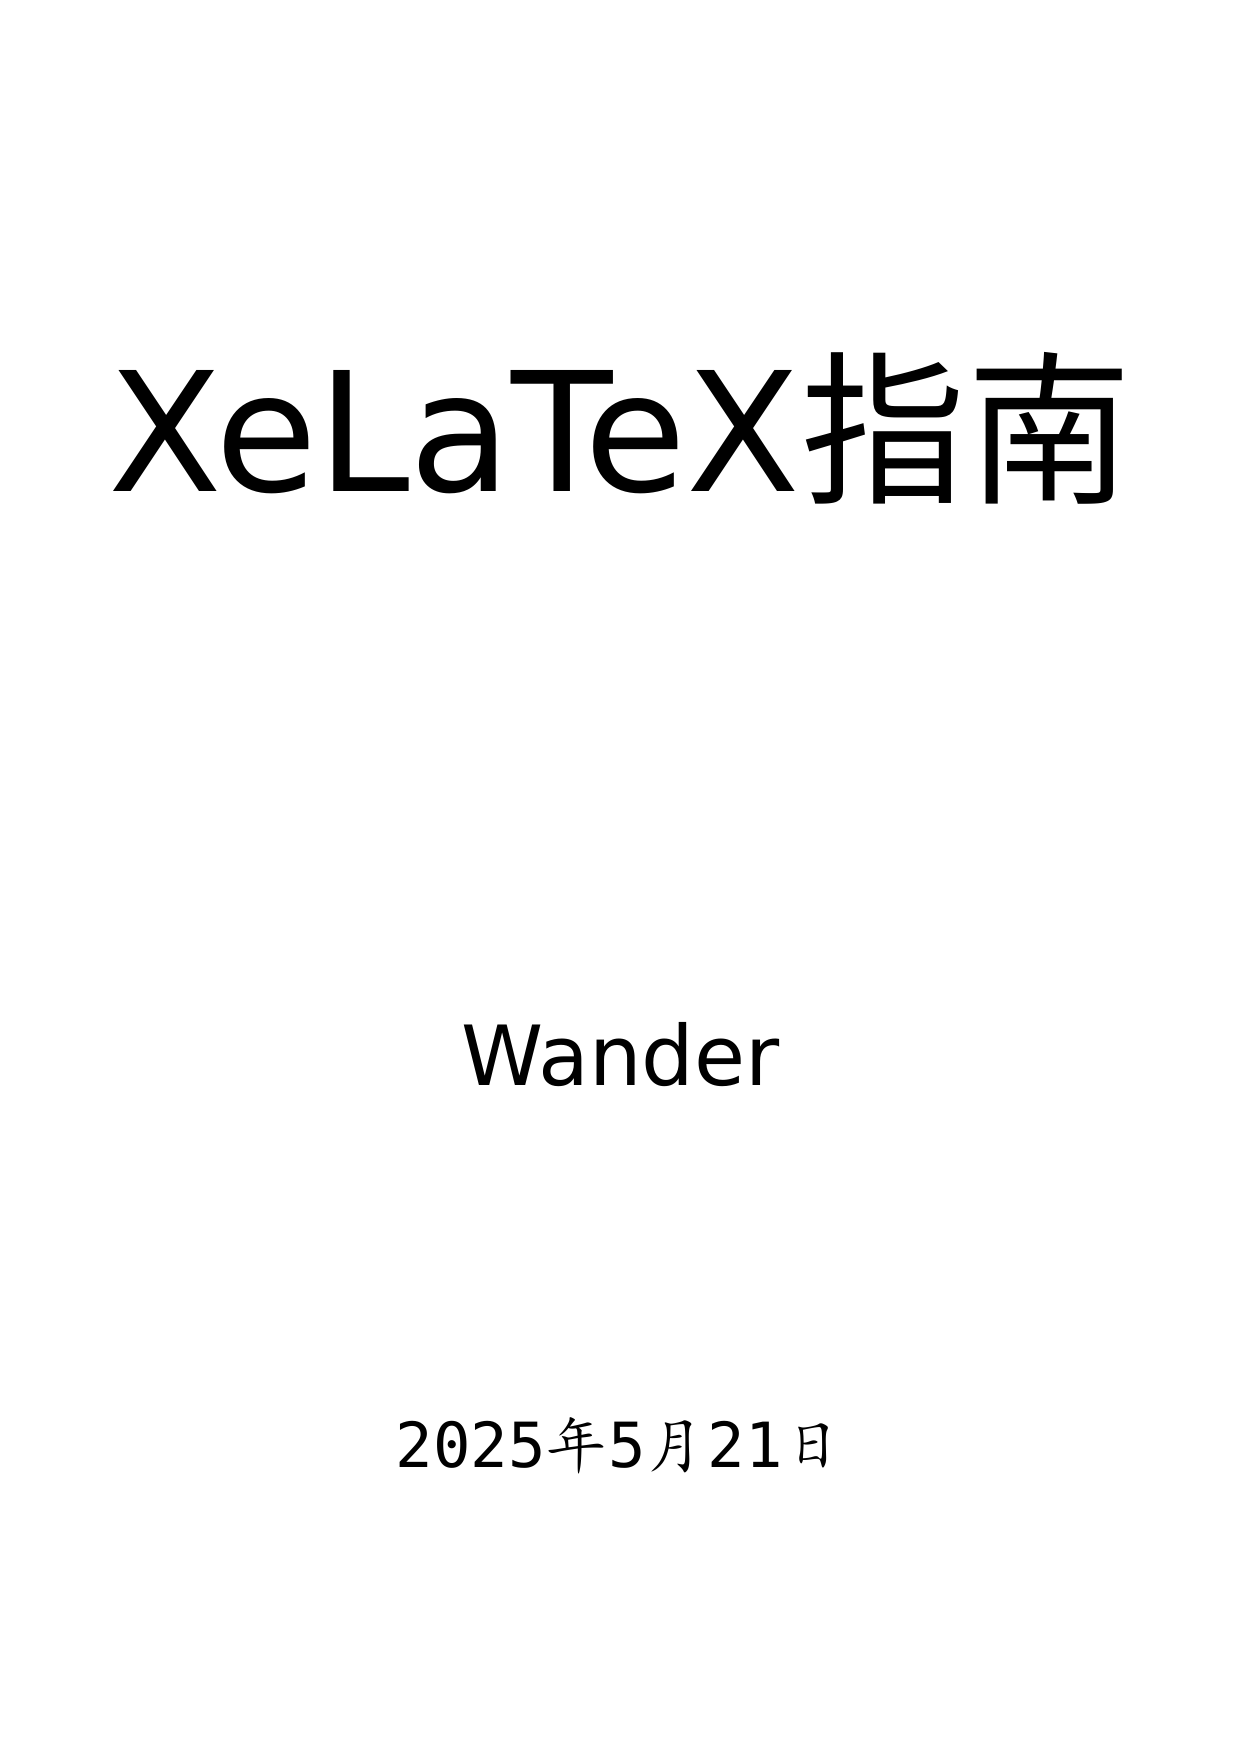
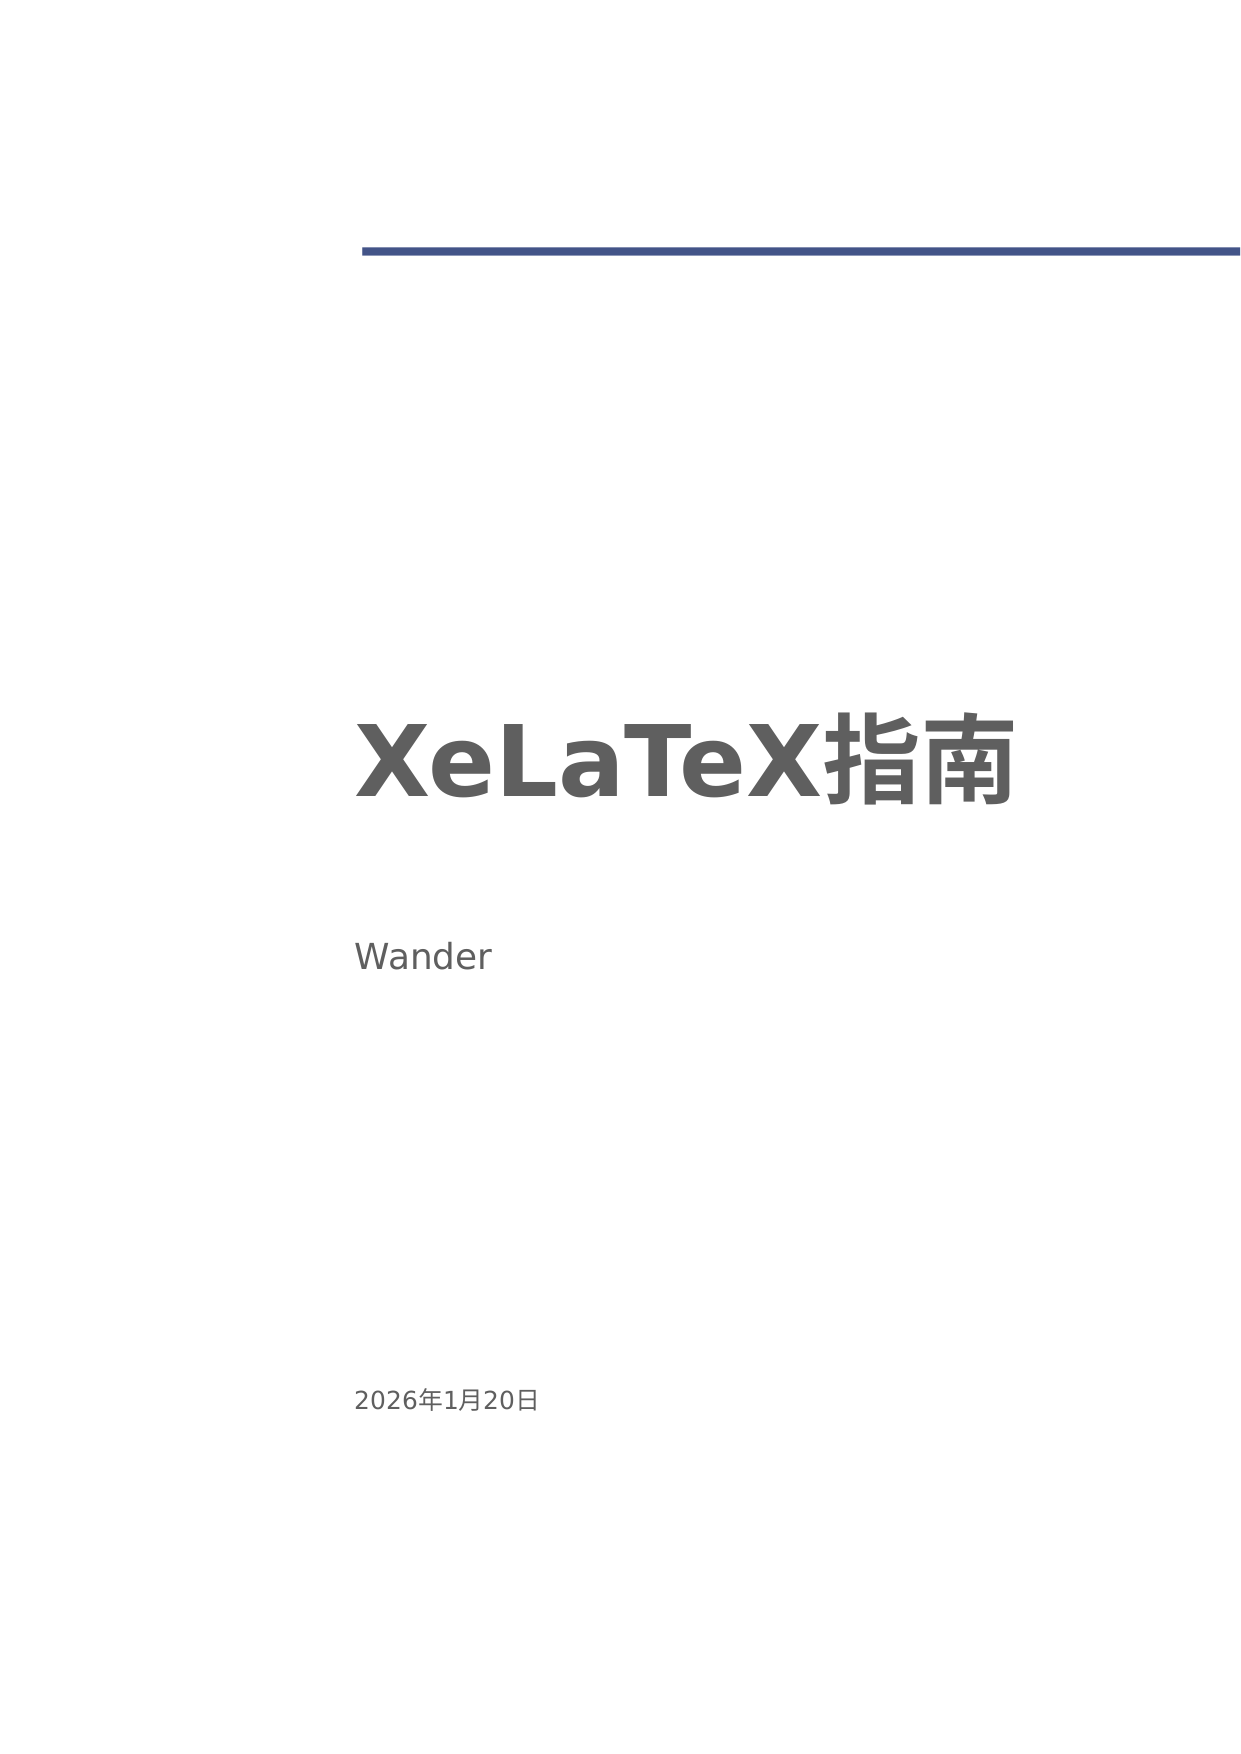
20260120

diff --git a/epub.css b/epub.css
@@ -1,0 +1,77 @@
+body { margin: 5%; text-align: justify; font-size: medium; }
+
+
+pre {
+    display: block;
+    padding: 9.5px;
+    margin: 0 0 10px;
+    font-size: 13px;
+    line-height: 1.42857143;
+    color: #333;
+    word-break: break-all;
+    word-wrap: break-word;
+    background-color: #f5f5f5;
+    border: 1px solid #ccc;
+    border-radius: 4px;
+}
+
+code, kbd, pre, samp {
+    font-family: Menlo,Monaco,Consolas,"Courier New",monospace;
+}
+
+:not(pre)>code {
+    padding: 2px 4px;
+    font-size: 90%;
+    color: #c7254e;
+    background-color: #f9f2f4;
+    border-radius: 4px;
+}
+
+
+body>p,section>p {
+    text-indent:2em;
+}
+h1 { text-align: left; }
+h2 { text-align: left; }
+h3 { text-align: left; }
+h4 { text-align: left; }
+h5 { text-align: left; }
+h6 { text-align: left; }
+
+nav#toc ol,
+nav#landmarks ol { padding: 0; margin-left: 1em; }
+nav#toc ol li,
+nav#landmarks ol li { list-style-type: none; margin: 0; padding: 0; }
+a.footnote-ref {
+    position: relative;
+    vertical-align: super;
+    font-size: 0.83em;
+}
+
+em, em em em, em em em em em { font-style: italic;}
+em em, em em em em { font-style: normal; }
+
+code{ white-space: pre-wrap; }
+
+span.smallcaps{ font-variant: small-caps; }
+
+span.underline{ text-decoration: underline; }
+
+q { quotes: "“" "”" "‘" "’"; }
+
+div.column{ display: inline-block; vertical-align: top; width: 50%; }
+
+blockquote {
+    font-family: 'KaiTi', 'KaiTi_GB2312', 'STKaiti', 'DejaVu Sans Mono';
+}
+
+.flushleft{
+    text-align: left!important;
+}
+.flushright{
+    text-align: right!important;
+}
+
+.center{
+    text-align: center !important;
+}

diff --git a/main.tex b/main.tex
@@ -39,12 +39,6 @@
 \ttfamily}
 {\endlist}
 
-
-\newenvironment{shici}{
-\begin{verse}
-\centering\large\hspace{12pt}}
-{\end{verse}}
-
  
 \title{XeLaTeX指南}
 \author{Wander}
@@ -56,9 +50,8 @@
 }
  
 \begin{document}
-\makemytitle
+\bookcover{book_cover.png}
 
-\flypage{感谢上帝}
 
 \frontmatter 
 \addchtoc{序言}
@@ -472,7 +465,8 @@ fontspec宏包有一个和这个宏包名字一样的命令，这个命令非常
 一个字体的字族之下还分为不同的字形，默认的字形设置可能并不能满足你的要求。有一些字体甚至没有粗体或者意大利体这样的字形。一般的玩家就选用默认字形设置足有了，最多在mainfont哪里设置下boldfont和italicfont。比如类似下面这样配置：
 
 \begin{Verbatim}
-\setCJKmainfont[BoldFont=Adobe 黑体 Std, ItalicFont=Adobe 楷体 Std]{Adobe 宋体 Std}
+\setCJKmainfont[BoldFont=Adobe 黑体 Std, ItalicFont=Adobe 楷体 Std]
+{Adobe 宋体 Std}
 \end{Verbatim}
 
 具体字形有：
@@ -1092,13 +1086,6 @@ hyperref宏包目前我的DIY只限于一些颜色设置，更多信息请参阅
 \renewcommand{\thefootnote}{\arabic{footnote}}
 \end{Verbatim}
 
-
-\section{一页脚注重新编号}
-我喜欢每一页脚注都重新编号，觉得那些数字反正也没什么意义。具体实现如下代码所示。
-\begin{Verbatim}
-\usepackage{perpage} 
-\MakePerPage{footnote} 
-\end{Verbatim}
 
 
 \section{脚注中的距离}

diff --git a/book_cover.tex b/book_cover.tex
@@ -7,8 +7,9 @@
 \begin{document}
 
 \title{XeLaTeX指南}
+%\subtitle{指南}
 \author{Wander}
 
-\makemytitle
+\makemytitleA
 
 \end{document}

diff --git a/README.md b/README.md
@@ -1,49 +1,10 @@
 ## XeLaTeX 指南
-
 XeLaTeX 指南
-
-
-## TODO
-数学公式输入那块以后可能会再增加一些吧。
-
-tikz制图想过，有些地方简单的tikz制图还是很方便的，但还是手绘方便些，个人时间精力有限。那些需要出版级别的制图效果的集中精力学学还是很有用的。
-
-Tex高级命令篇，至少一些最基本最核心的命令，怎么编写宏包，也想过。但Tex作为编程语言实在一言难尽，有编程需求还是外面跑其他脚本运行吧。
-
-暂时先这样吧。
-
-## 更新日志
-### 20250404
-1. 只关注于本地pdf文件输出，移除了epub输出支持
-2. Texlive升级到2025版，似乎没有影响
-3. 结构精简，移除了一些不常用的内容
-4. 更加关注数学公式输出那一块，全面重写
-
-
-### 20201120
-
-ulem的uline命令不知道什么时候起不能正常中文换行了，通过引入`xeCJKfntef`宏包问题得到解决。
-
-### 20200816
-
-楷体更改为授权更宽松的 `台湾全字库正楷体` 。
-
-### 第四次修订版
-
-1. 引入epub书籍兼容制作流程。
-2. Texlive升级到2020版，有一两处小bug，已修复。
-3. 其他问题完善
-
-### 第三次修订版
-
-数学模式内容极大丰富和完善。
 
 
 
 ## 补充信息
 临时有些补充信息就先方便放在readme这里了。
-
-
 
 ### tikz制图
 tikz制图专门做了一个gallery项目，请点击 [这里](https://github.com/a358003542/tikz_gallery)。

diff --git a/CHANGELOG.md b/CHANGELOG.md
@@ -1,0 +1,33 @@
+## 更新日志
+### 20260120
+1. 移除了perpage宏包，它每章会额外执行某个footnote计数增加动作，我这边自定义脚注是延迟展开的，造成每章第一页脚注计数会从2开始，其他页面正常。book cls默认的每章footnote计数重置足够使用了，就不使用这个宏包了。似乎是因为perpage宏包2014年的更新导致的，2015年之后我这边应该就要开始出问题了。
+
+2. `mybook.sty` 和 `mybookcover.sty` 更新
+
+3. epub输出加上，似乎没有大的问题，数学公式有的正常有的不正常，有些可能解决不了，是一些特殊的数学环境，有些似乎可以解决。
+
+
+### 20250404
+1. 只关注于本地pdf文件输出，移除了epub输出支持
+2. Texlive升级到2025版，似乎没有影响
+3. 结构精简，移除了一些不常用的内容
+4. 更加关注数学公式输出那一块，全面重写
+
+
+### 20201120
+
+ulem的uline命令不知道什么时候起不能正常中文换行了，通过引入`xeCJKfntef`宏包问题得到解决。
+
+### 20200816
+
+楷体更改为授权更宽松的 `台湾全字库正楷体` 。
+
+### 第四次修订版
+
+1. 引入epub书籍兼容制作流程。
+2. Texlive升级到2020版，有一两处小bug，已修复。
+3. 其他问题完善
+
+### 第三次修订版
+
+数学模式内容极大丰富和完善。
